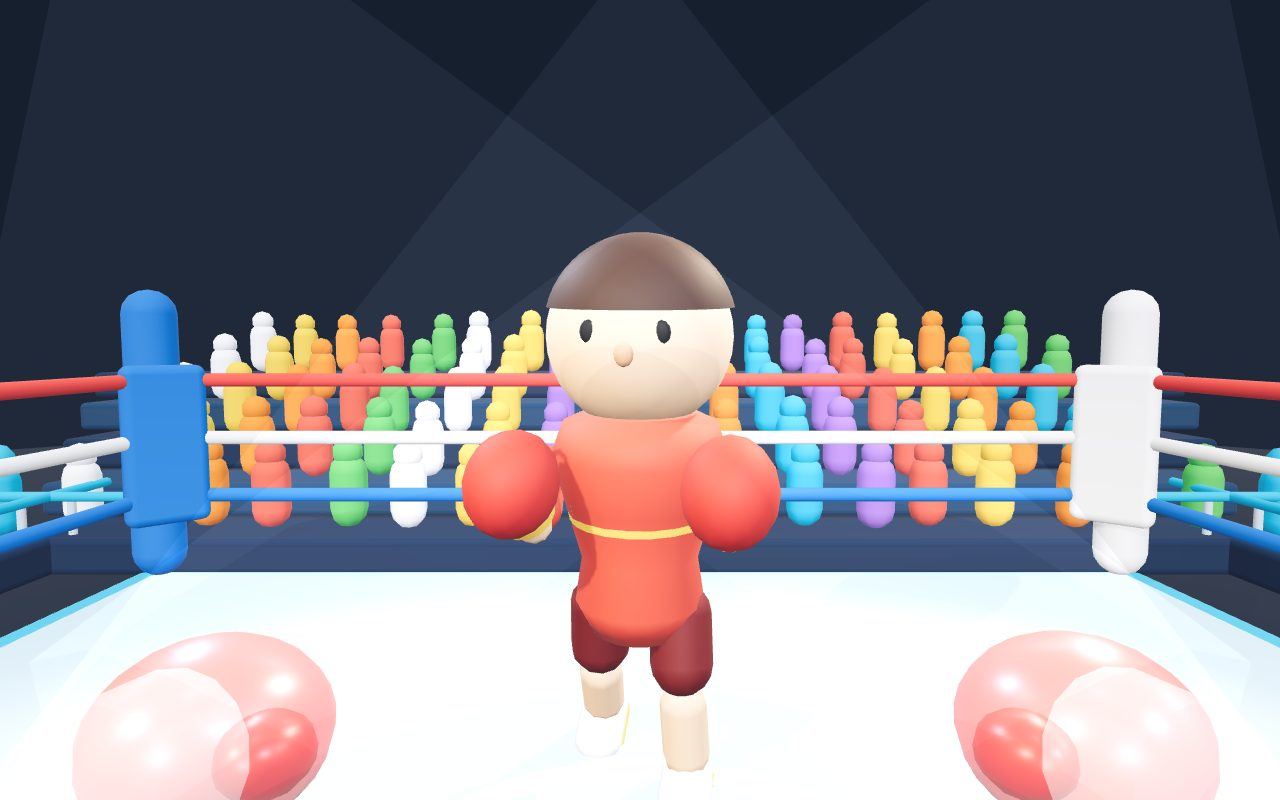
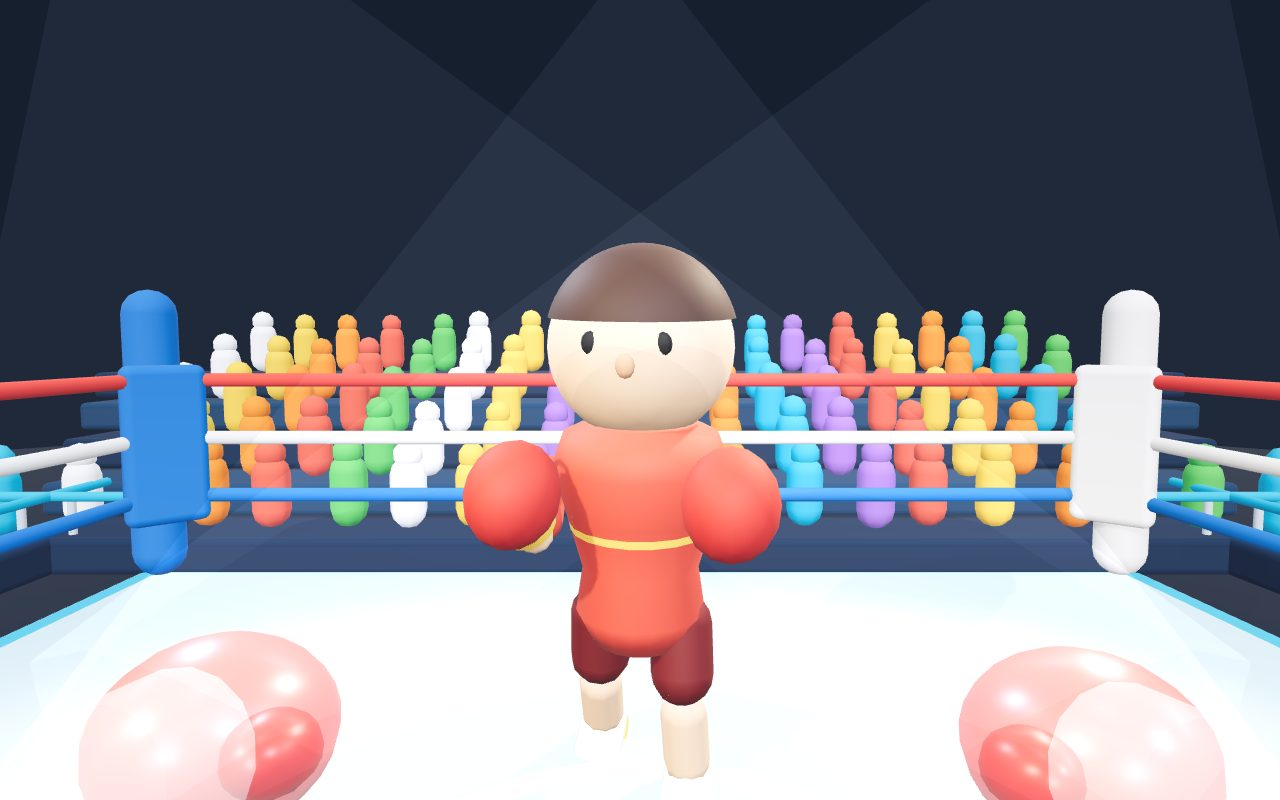
Update the games showcase for the current games and Iron Man
Refresh the screenshots, mention the boxing tutorial and the Iron Man challenge.

diff --git a/src/components/GamesShowcase.tsx b/src/components/GamesShowcase.tsx
@@ -23,8 +23,8 @@ const GAMES = [
     id: 'boxing',
     name: { pt: 'Boxe', en: 'Boxing' },
     description: {
-      pt: 'As luzes se acendem, a torcida se ajeita e o adversário já ergueu a guarda. Soque para a frente quando surgir a brecha e incline o corpo para esquivar do que vier. Entre uma luta e outra, treine no saco de pancada ou pratique a esquiva.',
-      en: 'The lights come up, the crowd settles in and your opponent already has their guard up. Punch forward when an opening appears and lean away from whatever comes back. Between fights, train on the punching bag or practise your evasion.',
+      pt: 'As luzes se acendem, a torcida se ajeita e o adversário já ergueu a guarda. Soque para a frente quando surgir a brecha e incline o corpo para esquivar do que vier. Antes da luta, aprenda no tutorial, treine no saco de pancada ou pratique a esquiva.',
+      en: 'The lights come up, the crowd settles in and your opponent already has their guard up. Punch forward when an opening appears and lean away from whatever comes back. Before the fight, learn in the tutorial, train on the punching bag or practise your evasion.',
     },
   },
 ];
@@ -69,6 +69,12 @@ export default function GamesShowcase() {
           </li>
         ))}
       </ul>
+      <p className="games-showcase-iron">
+        {tr(
+          'E quando um só não bastar, o Iron Man junta os três em um único desafio.',
+          'And when one is not enough, Iron Man strings all three into a single challenge.',
+        )}
+      </p>
       <Link className="vision-cta" to="/app">
         {tr('Jogar agora', 'Play now')} <span aria-hidden="true">↗</span>
       </Link>

diff --git a/src/site.css b/src/site.css
@@ -262,6 +262,7 @@ body.dark .games-showcase { background: #252622; box-shadow: inset 0 30px 32px -
 .games-showcase li:nth-child(even) img { order: 1; }
 .games-showcase img { display: block; width: 100%; height: auto; border: 1px solid color-mix(in srgb, var(--ink) 12%, transparent); border-radius: 15px; box-shadow: 0 7px 24px rgba(26, 110, 168, .16); }
 .games-showcase h3 { margin: 0 0 10px; font-size: clamp(20px, 2.4vw, 28px); }
+.games-showcase .games-showcase-iron { text-align: center; }
 .games-showcase p { margin: 0; color: var(--muted); font: 14px/1.85 var(--mono); }
 .games-showcase .is-reveal li { opacity: 0; translate: 0 18px; transition: opacity 1.4s ease, translate 1.4s cubic-bezier(.22, .61, .36, 1); }
 .games-showcase .is-reveal li.is-visible { opacity: 1; translate: 0 0; }
